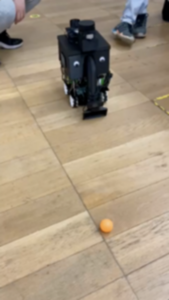
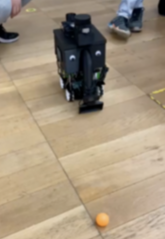
updated ASTRI

diff --git a/index.html b/index.html
@@ -68,35 +68,82 @@ contexts.
         <div class="major__icon">
           <i class="fa-solid fa-brain"></i>
         </div>  
-        <h2 class="major__title">Machine-Learning</h2>
+        <h2 class="major__title">AI</h2>
         <p class="major__description">
-          Python, Java, Tensorflow, TensorFlow Lite, Pytorch 
-          <br /> Data Science, Big data
+          <br> Machine Learning : <small>PyTorch, Tensor Flow, Tensor Flow Lite</small>
+          <br> Deep Learning : <small> CNN, LSTM, NNs </small>
+          <br> NLP : <small> Transformer, NMT, Text Generation, BERT </small>
+          <br> Computer Vision : <small> Yolo </small>
+          <br> Data Science
+          <br> Big data
         </p>
       </div>
       <div class="major">
         <div class="major__icon">
           <i class="fa-brands fa-python"></i>
         </div>     
-        <h2 class="major__title">Back-end</h2>
+        <h2 class="major__title">Software Engineer </h2>
         <p class="major__description">
           Python, Java, JavaScript, Haskell
-          <br /> NodeJS, Rest APIs, Database(MongoDB)
+          <br> Back End : <small> OOP, NodeJs, Rest APIs, DB: MongoDB, Redis </small>
+          <br> Front End : <small> HTML, CSS, React, Web API </small>
         </p>
       </div>
       <div class="major">
         <div class="major__icon">
           <i class="fa-brands fa-js"></i>
         </div>
-        <h2 class="major__title">Front-end</h2>
+        <h2 class="major__title">Project Management</h2>
         <p class="major__description">
-          HTML, CSS, JavaScript, TypeScript, 
-          <br /> React, Web APIs
+          <br> Quantitative Data Anaylsis:  <br> <small> Keran, Sklearn, Pandas, Numpy, MATLAB, Matplotlib </small>
+          <br> Leadership
+          <br> Problem-solving
+          <br> Critical thinking
+          <br> Planning
+          <br> Innovation
+	
+
         </p>
         
       </div>
     </div>
     <div class="about__jobs">
+      <div class="job">
+        <img 
+        src="image/jobs/ASTRI.png"
+        alt="ASTRI"
+        class="job__logo"
+      />
+      <div class="job__description">
+      <p class="job__name">
+        <br><strong> Hong Kong Applied Science and Technology Research Institute </strong><br>
+        IoT&AI Engineer | Intern
+        <br> - Improved and optimised the automated portable microplastics (MPs such as PE & PET) detector consisting of two modules. The MPs loss of the first module was enhanced from 88% to 9%. The second module achieved a loss improvement from 80% to 25%. </br>
+      </p>
+      <p class="job__period">Jun 2024 - Aug 2024</p>
+      </div>
+      </div>
+
+      <div class="job">
+        <img 
+        src="image/jobs/LSP.png"
+        alt="LSP"
+        class="job__logo"
+      />
+      <div class="job__description">
+      <p class="job__name">
+        <br><strong> Life Scale Planning Programme </strong><br>
+        Co-Founder
+        <br> - Developed, Operated, and Modified the initial stages of the Life Scale Planning(LSP) Programme which is an educational coaching programme rooted in neuroscience, designed to establish fundamental habits
+        and self-improvement abilities, reaching 100 schools and 3,000 students over 13 years. Helped approximately 100 students gain
+        admission to top South Korean universities. Featured in primary media. LSP is still impacting communities. 
+        <br> - Our programme has been extremely successful offline in Korea. We are digitaising our valuable services to iOS & Android apps with AI-enhanced technologies (i.e., ML & IoT sensing) to leverage our service globally.
+
+      </p>
+      <p class="job__period">Mar 2010 - Present</p>
+      </div>
+      </div>
+
       <div class="job">
         <img 
         src="image/jobs/Layermind-Logo.png"
@@ -105,13 +152,15 @@ contexts.
       />
       <div class="job__description">
       <p class="job__name">
-        <br><strong> Blueberry Property </strong><br>
-        Full-stack - Joining to build the minimum viable product of the proftech web application.
-        <br> 1. web application prototyte - Front part
-        <br> 2. research for finding the optimised weighted value of a property
-         based on the distances between a property and POI data. - AI part(ML, deep learning) </br>
+        <br><strong> Layermind Inc. </strong><br>
+        Software Engineer | Intern
+        <br> Full-stack - Joining to build the minimum viable product of the proftech web application.
+        <br> - Developed Twitter-design-based community page with Node(Express.js) and React.
+        <br> - Designed MVP, which offers the blueprint of regional information for Singapore areas, detailing
+transportation, education, income, and safety metrices etc.
+        <br> - Researched for finding the optimised weighted value of a property based on the distances between a property and POI data. </br>
       </p>
-      <p class="job__period">2023~ongoing</p>
+      <p class="job__period">Jan 2023 - Feb 2023 & May 2022 - July 2022</p>
       </div>
       </div>
 
@@ -123,12 +172,11 @@ contexts.
         />
         <div class="job__description">
         <p class="job__name">
-          <br><strong> UN & DMZ Police</strong><br>
-          - Intelligence corpsman: Analyzed/translated international affairs and UN/DMZ confidential report <br>
-          - Interpreter: Translate confectionary technology to Sudanese(English) <br>
-          - TOD Operator
-          <br> 1. Observed the periphery of UN Mission In South Sudan (UNMISS) troops and its terrain for 24 hours at South Sudan
-          <br> 2. Observed North Korean terrain, and its officers and troops for 24 hours at The Korean Demilitarised Zone (DMZ) 
+          <br><strong> United Nations</strong><br>
+          Intelligence Soldier in UN Mission In South Sudan(UNMISS) | Full Time
+          <br> - Assisted the Hanbit Unit commander by analysing international affairs and the UN confidential reports along with the collected information through Thermal Observation Device.
+          <br> - As an English interpreter, interpreted technical and vocational skills (confectionary) to locals as part of the rehabilitation programme in UNMISS.
+          <br> - Won UNMISS award by Colenel Suman Park for excellent and successful mission completion.
         </p>
       <p class="job__period">2018-2020</p>
       </div>
@@ -143,25 +191,13 @@ contexts.
         <div class="job__description">
         <p class="job__name">
           <br><strong> RISEUP </strong><br>
-          Project Manager and Student Mentor at rise-up NGO
+          Project Manager & Student Mentor | Full Time
         </p>
         <p class="job__period">2015-2017</p>
       </div>
       </div>
 
-      <div class="job">
-        <img 
-          src="image/jobs/LSP.png"
-          alt="UN"
-          class="job__logo"
-        />
-        <div class="job__description">
-        <p class="job__name">
-          <br><strong> LSP </strong><br>
-          LSP education program Co-Founder
-        </p>
-        <p class="job__period">2010-2013</p>
-      </div>
+
     </div>
     </div>  
   </section>
@@ -250,12 +286,11 @@ contexts.
         <div class="etc"></div>
           <h3 class="skillset__title">ETC</h3>
           <ul class="etc__list">
-            <li><span>Management</span></li>
-            <li><span>Leadership</span></li>
-            <li><span>Math</span></li>
-            <li><span>Git</span></li> 
-            <li><span>Haskell</span></li>
-            <li><span>...</span></li>
+            <li><span>Bilingual in English and Korean</span></li>
+            <li><span>6th Year Experienced Retail Investor</span></li>
+            <li><span>Finance</span></li>
+            <li><span>Fitness Enthusiast - Gym, Surfing, Swimming </span></li> 
+
           </ul>
       </div>  
     </div>
@@ -341,36 +376,35 @@ contexts.
         </a>
   
         <a 
-           href="https://github.com/007seann/JavaHomework" 
+           href="https://github.com/khoisan25/ttds-group-1" 
            class="project"
            target="blank"
            data-type="back-end"
            >
           <img 
             class="Project__img"
-            src="image/projects/project5.png"
+            src="image/projects/ttds.png"
             alt="Project5">
           <div class="project__description">
-            <h3></h3>
-            <span>     </span>
+            <h3>Innovative News Search Engine</h3>
+            <span> Our team has created Revelio, an innovative news search engine that allows users to search for news articles.     </span>
           </div>
         </a>
   
         <a 
-           href="https://github.com/007seann/Carrer-Portfolio" 
+           href="https://github.com/007seann/Generation-of-Supervised-Sentiment-Metrics-for-Return-and-Volatility-Prediction-from-10-K-Filings" 
            class="project"
            target="blank"
            data-type="machine-learning"
            >
           <img 
             class="Project__img"
-            src="image/projects/distance-based property valuation.png"
+            src="image/projects/sentiment-model.jpeg"
             alt="Project6">
           <div class="project__description">
-            <h3>Distance-based Estimation of a Property Value in Singapore</h3>
-            <span>(On progress)  
-              We assume that the value of a property has correlation with the distance between the property and point of interests around it. <br>
-              We would like to show the correlation between them with the comparison to the market price of a property.</span>
+            <h3>Generate of Supervised Sentiment Metrics for Return and Volatility Prediction from 10-K Filings.</h3>
+            <span>  
+              This paper introduces an automated system that generates sentiment metrics to support the prediction of stock returns and volatility.</span>
           </div>
         </a>
   
@@ -394,18 +428,20 @@ contexts.
         </a>
   
         <a 
-           href="https://github.com/007seann/Carrer-Portfolio" 
+           href="https://github.com/DHJKim321/PDIoT-cw3-q1" 
            class="project"
            target="blank"
            data-type="machine-learning"
            >
           <img 
             class="Project__img"
-            src="image/projects/project8.png"
+            src="image/projects/iot.png"
             alt="Project8">
           <div class="project__description">
-            <h3>Pong-Pickup-Pro</h3>
-            <span>The bot autonomously moves toward a ball and collect it with suction mechanism.</span>
+            <h3>A Real-Time Human Activity Recognition Classifier</h3>
+            <span> The real-time HAR model performed 92.6% accuracy with 91.8% F1 score for Task 1 and 74.8% accuracy with 72.6% F1 score for Task 2.
+                Task 1 is to classify 8 types of physical activities, and Task 2 is to classify 8 physical activities along with 4 types of respiratory activities.
+            </span>
           </div>
         </a>
   
@@ -435,7 +471,7 @@ contexts.
             As someone who has worked with Sean, I can attest to his character, dependability, and punctuality. I am confident that Sean would be a valuable addition to the academic community of the field.
    
           </p>
-          <p class="name"><a href="">Chanwoo Choi</a> /Blueberry Property</p>
+          <p class="name"><a href="">Chanwoo Choi</a> /Layermind Inc.</p>
          </div>
       </div>
 
